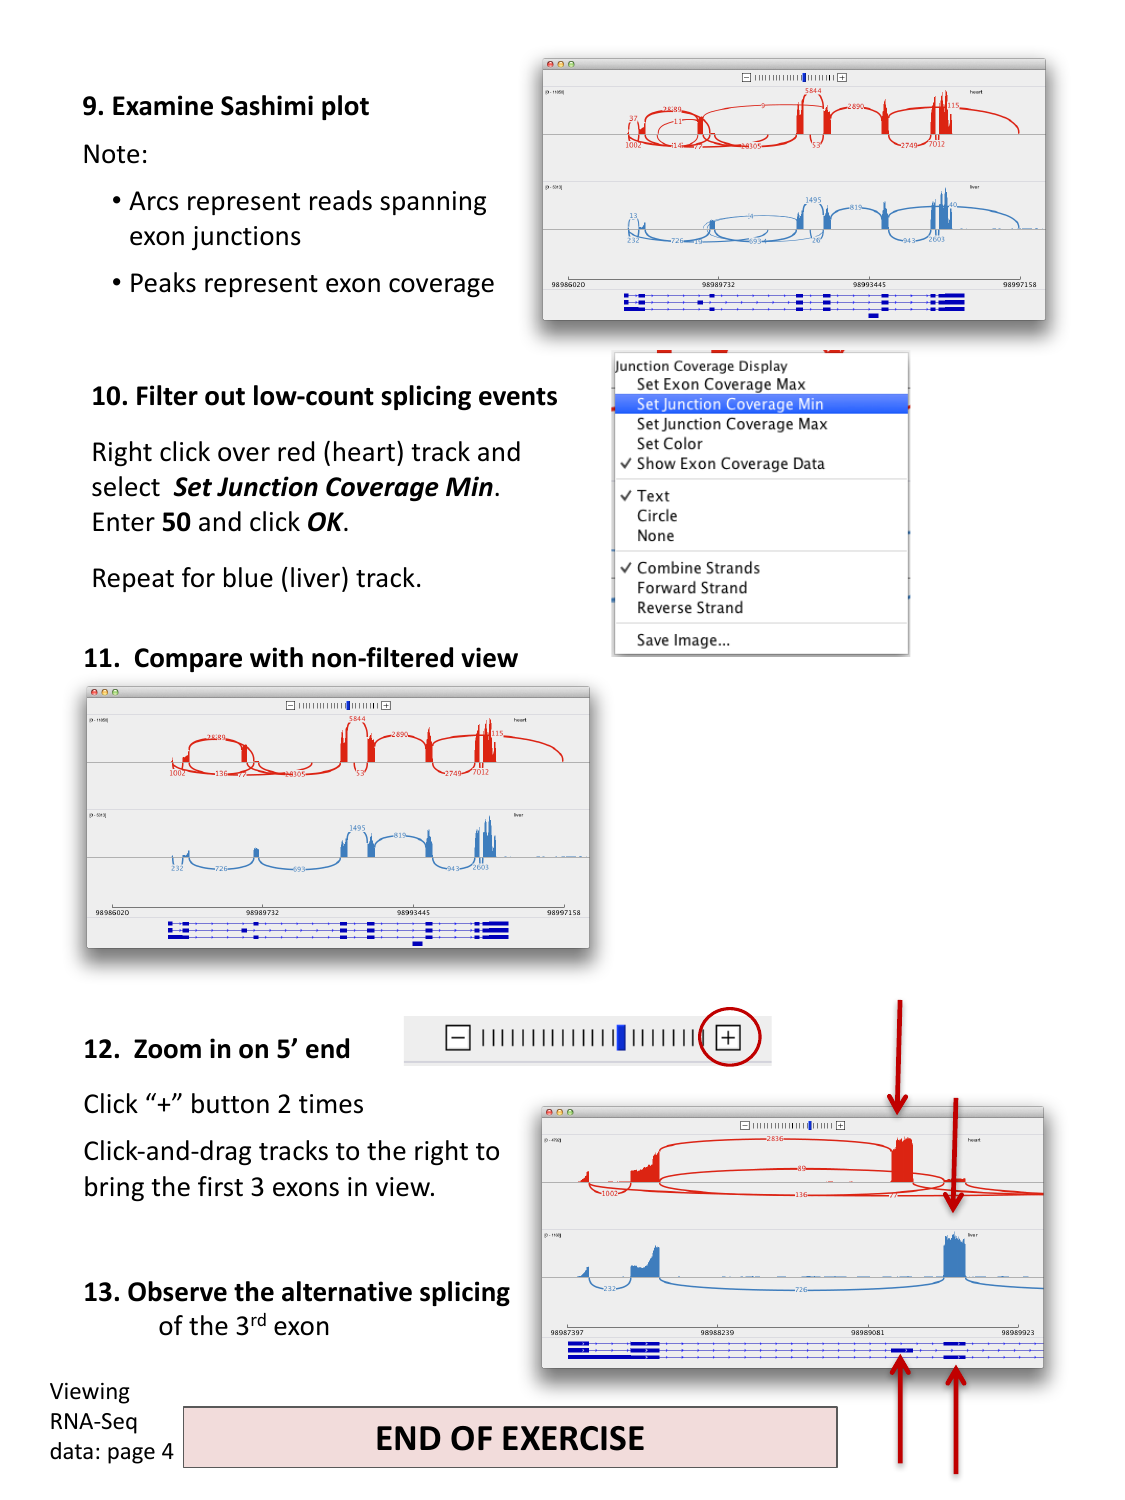
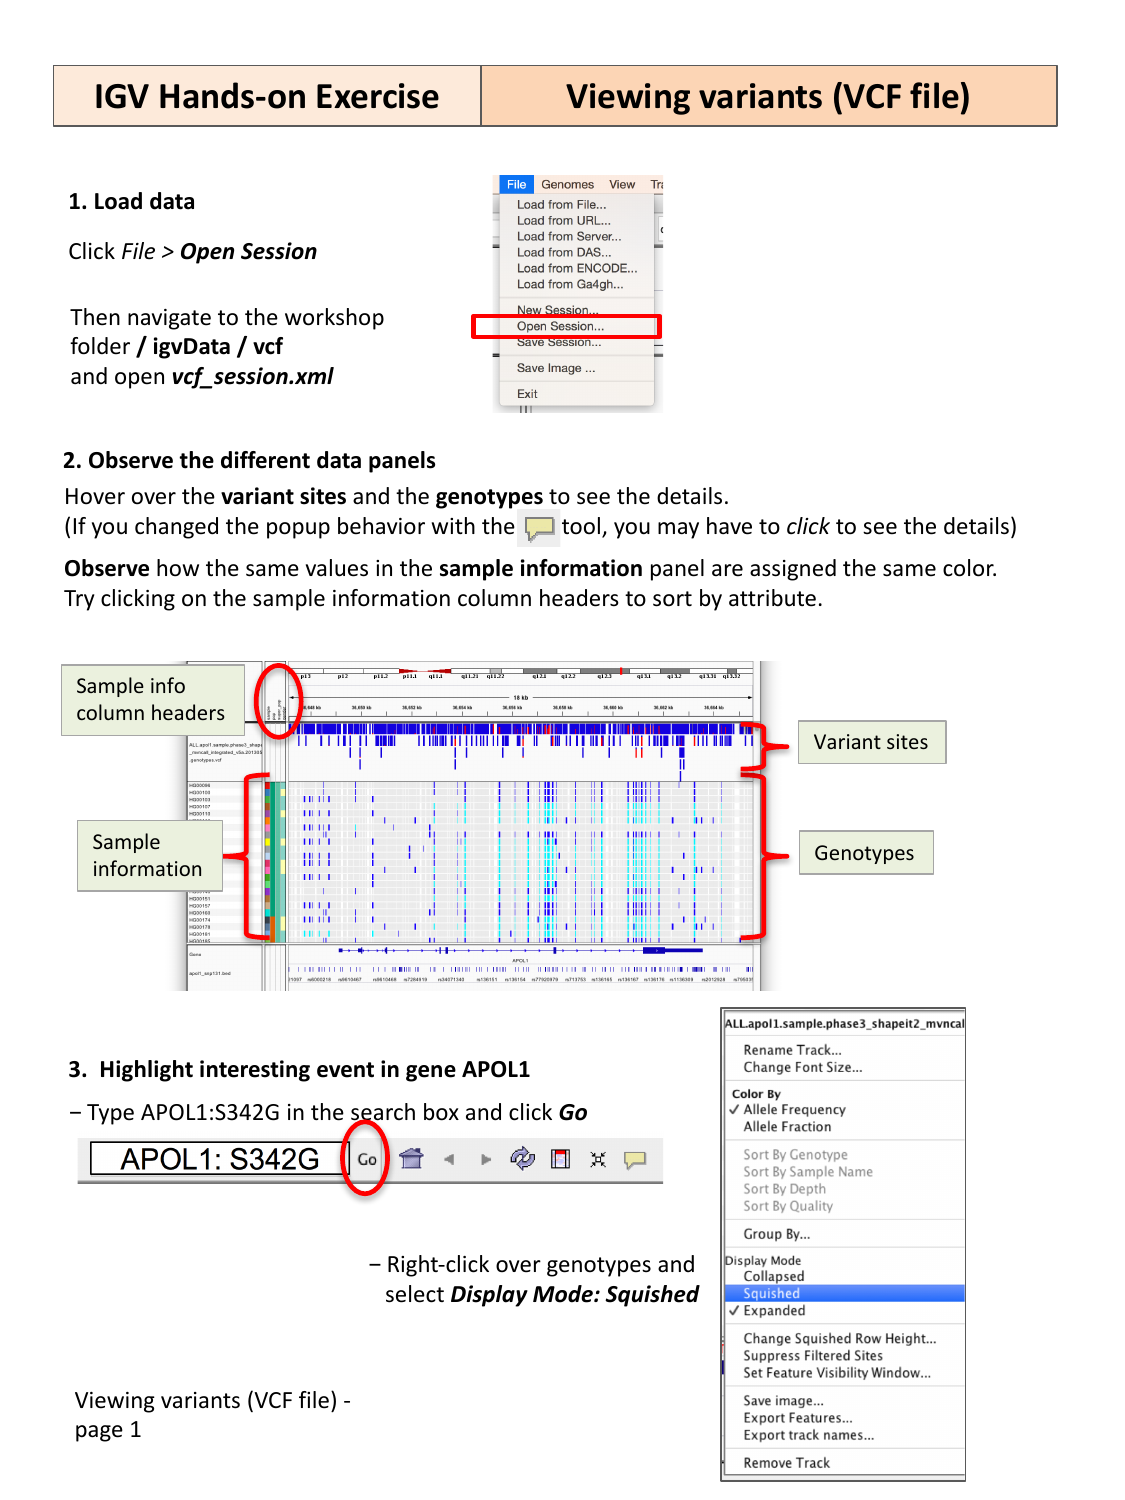
Fix mismatched exercise-PDF page mapping for RNA-seq/variants figures
The RNA-seq exercise in IGV_Exercises.pdf actually spans 4 pages, not
3, so every figure extracted after it was off by one page: the
"variants" episode figures were showing the RNA-seq Sashimi plot
result page instead of the VCF session/population-grouping pages.

- Renamed rnaseq-03 figure to reflect its real content (comparing
  splicing between tissues, then opening the Sashimi Plot menu).
- Added rnaseq-04, the actual Sashimi plot output page, referenced in
  the Sashimi plots section of episode 06.
- Replaced variants-01/02 with the correct VCF session and
  group-by-population pages.

Also add a .gitignore for sandpaper build output (site/*), matching
the upstream Carpentries lesson convention, since it had been
accidentally staged by a broad `git add -A`.

Claude-Session: https://claude.ai/code/session_0122rCMcYUZRCa9nfNE1aPu1

Changed region(s): [[0.0311, 0.0307, 0.9644, 1.0], [0.6844, 0.1227, 0.7467, 0.1533]]

diff --git a/episodes/06-viewing-rnaseq.md b/episodes/06-viewing-rnaseq.md
@@ -95,7 +95,9 @@ over a junction track (or the alignments) and select **Sashimi Plot**. If
 prompted to select alignment tracks, verify that both **heart** and
 **liver** are checked, and click **OK**.
 
-![A Sashimi plot: arcs represent reads spanning exon junctions, and peaks represent exon coverage, for two tissues.](fig/rnaseq-03-sashimi-plot.png){alt='Sashimi plot for heart and liver samples'}
+![Comparing the alternative splicing pattern between tissues, then opening a Sashimi plot from the right-click menu.](fig/rnaseq-03-alt-splicing-open-sashimi.png){alt='Right-click menu for opening a Sashimi Plot, with a dialog to select the heart and liver alignment tracks'}
+
+![The resulting Sashimi plot: arcs represent reads spanning exon junctions, and peaks represent exon coverage, for two tissues.](fig/rnaseq-04-sashimi-plot.png){alt='Sashimi plot for heart and liver samples showing junction arcs and coverage peaks'}
 
 In a Sashimi plot:
 

diff --git a/site/README.md b/site/README.md
@@ -1,0 +1,2 @@
+This directory contains rendered lesson materials. Please do not edit files
+here.
